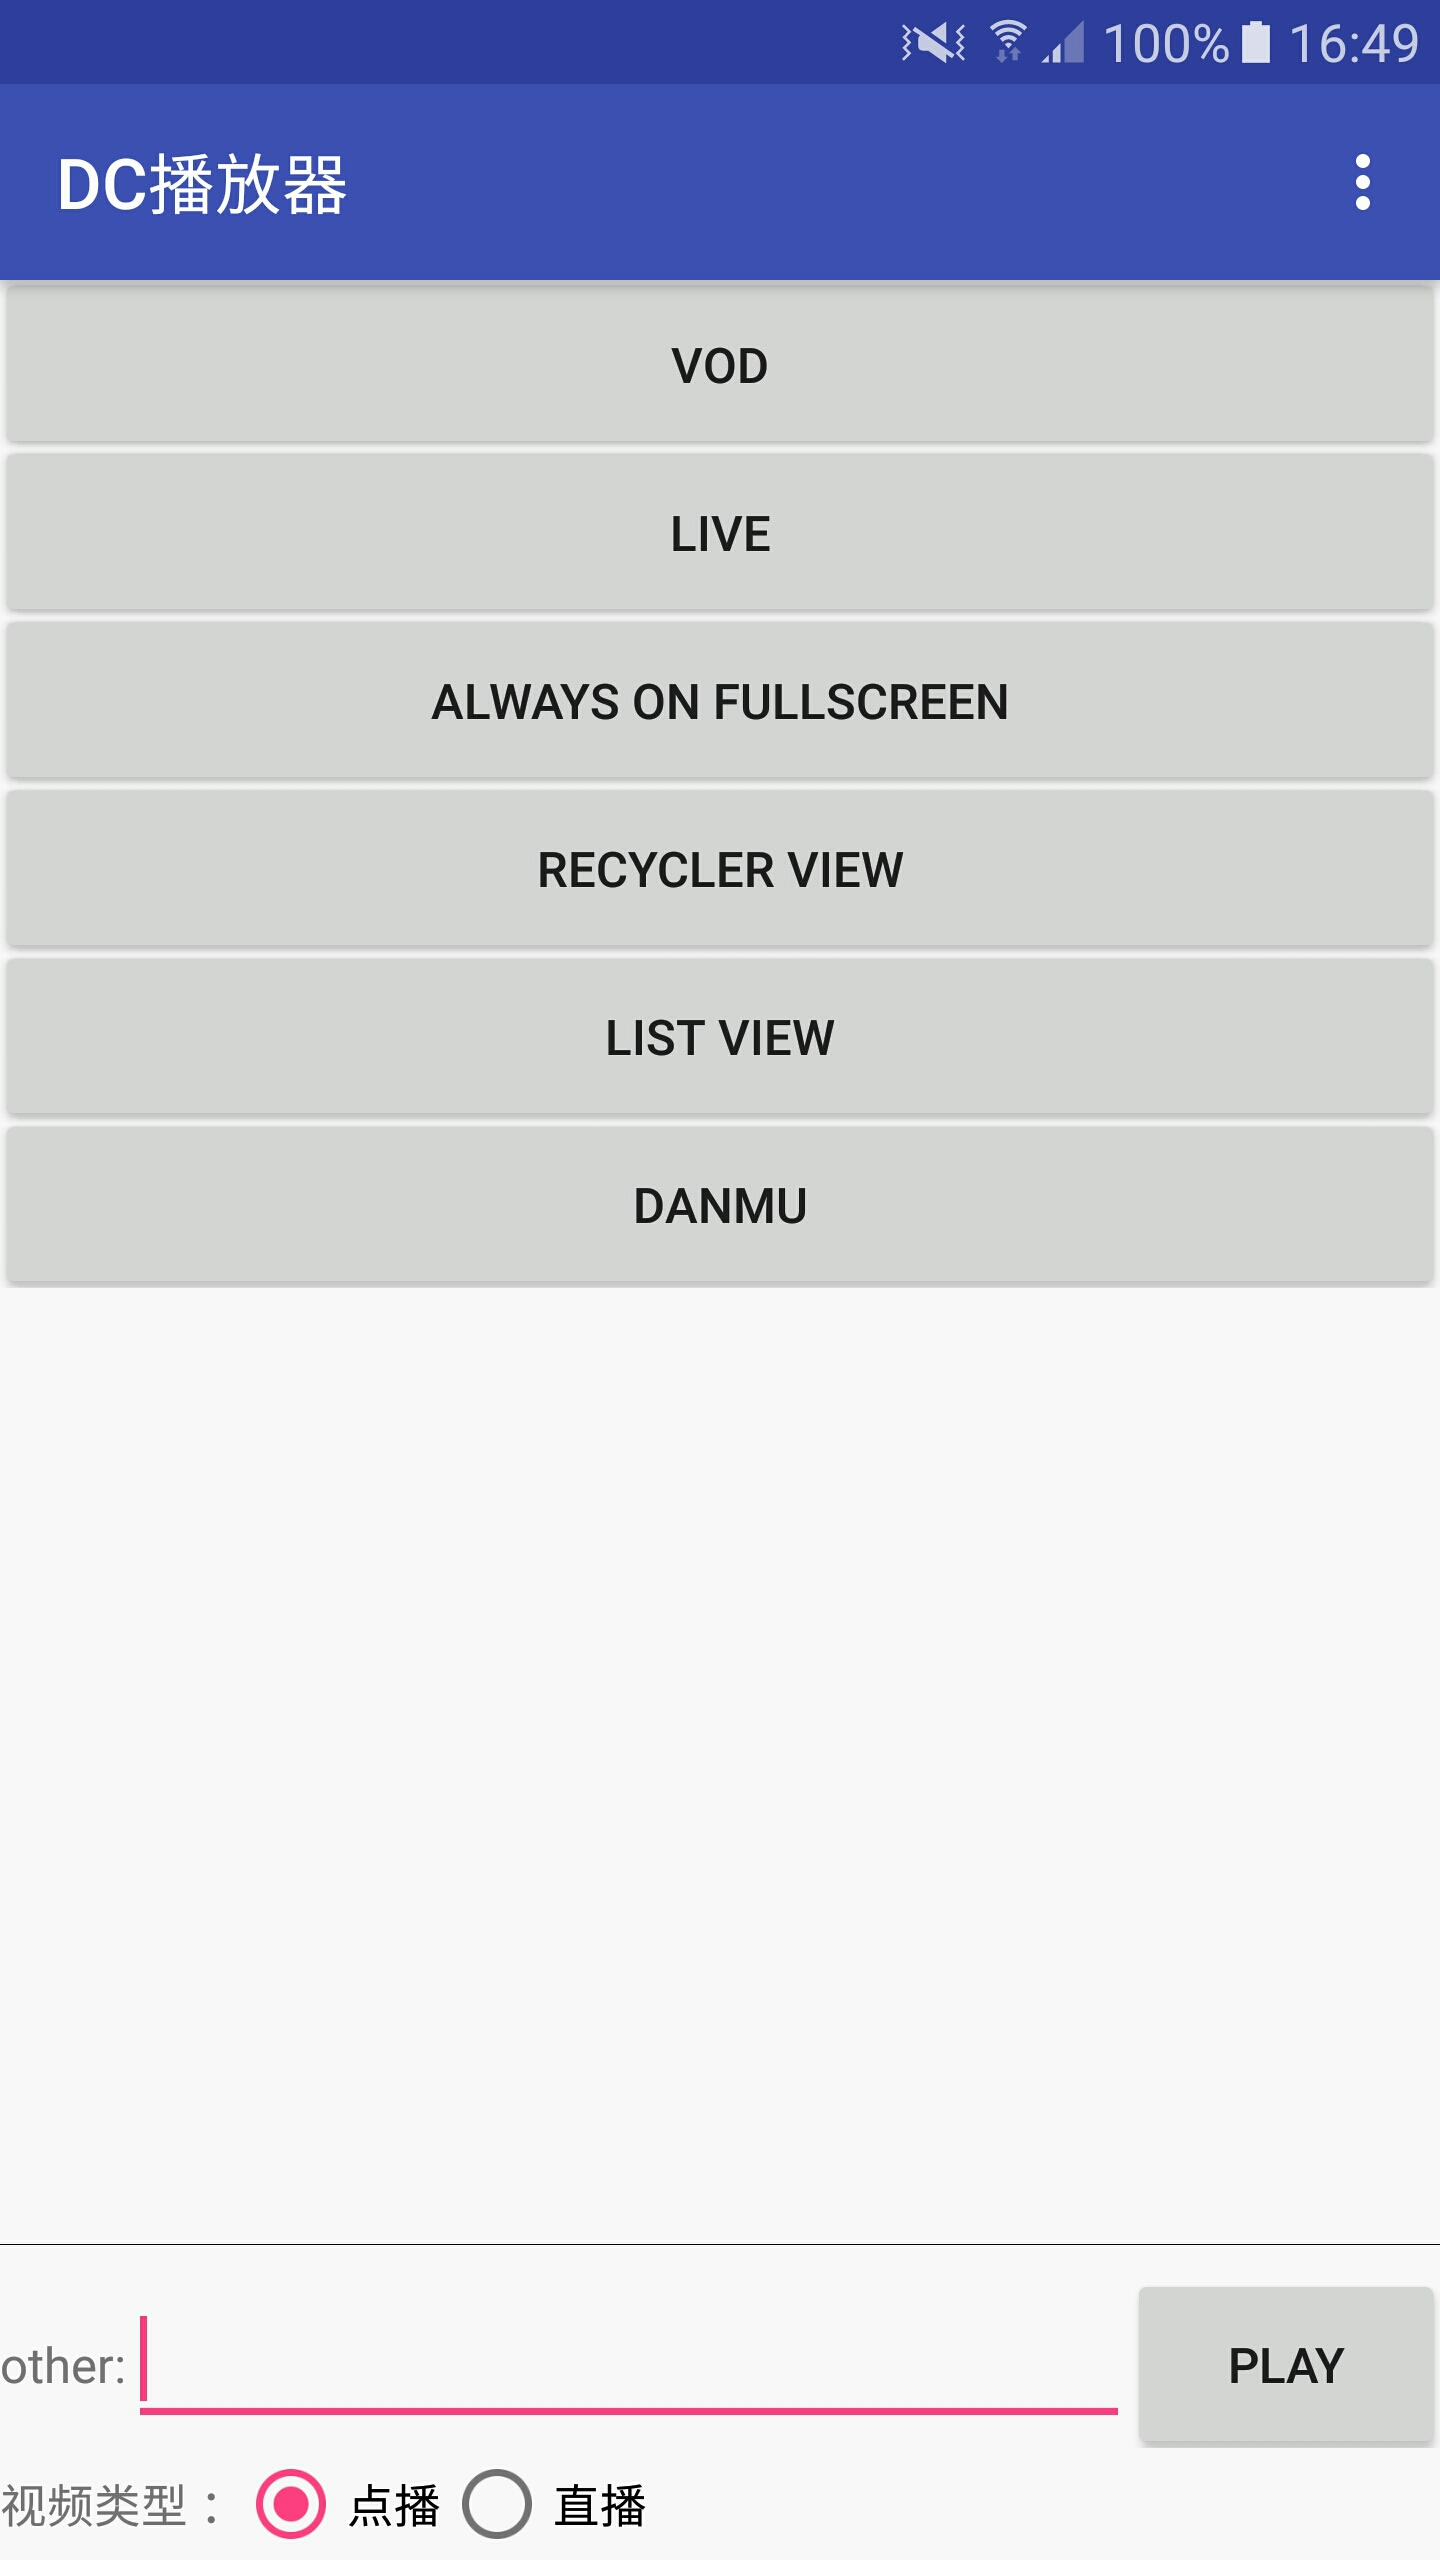
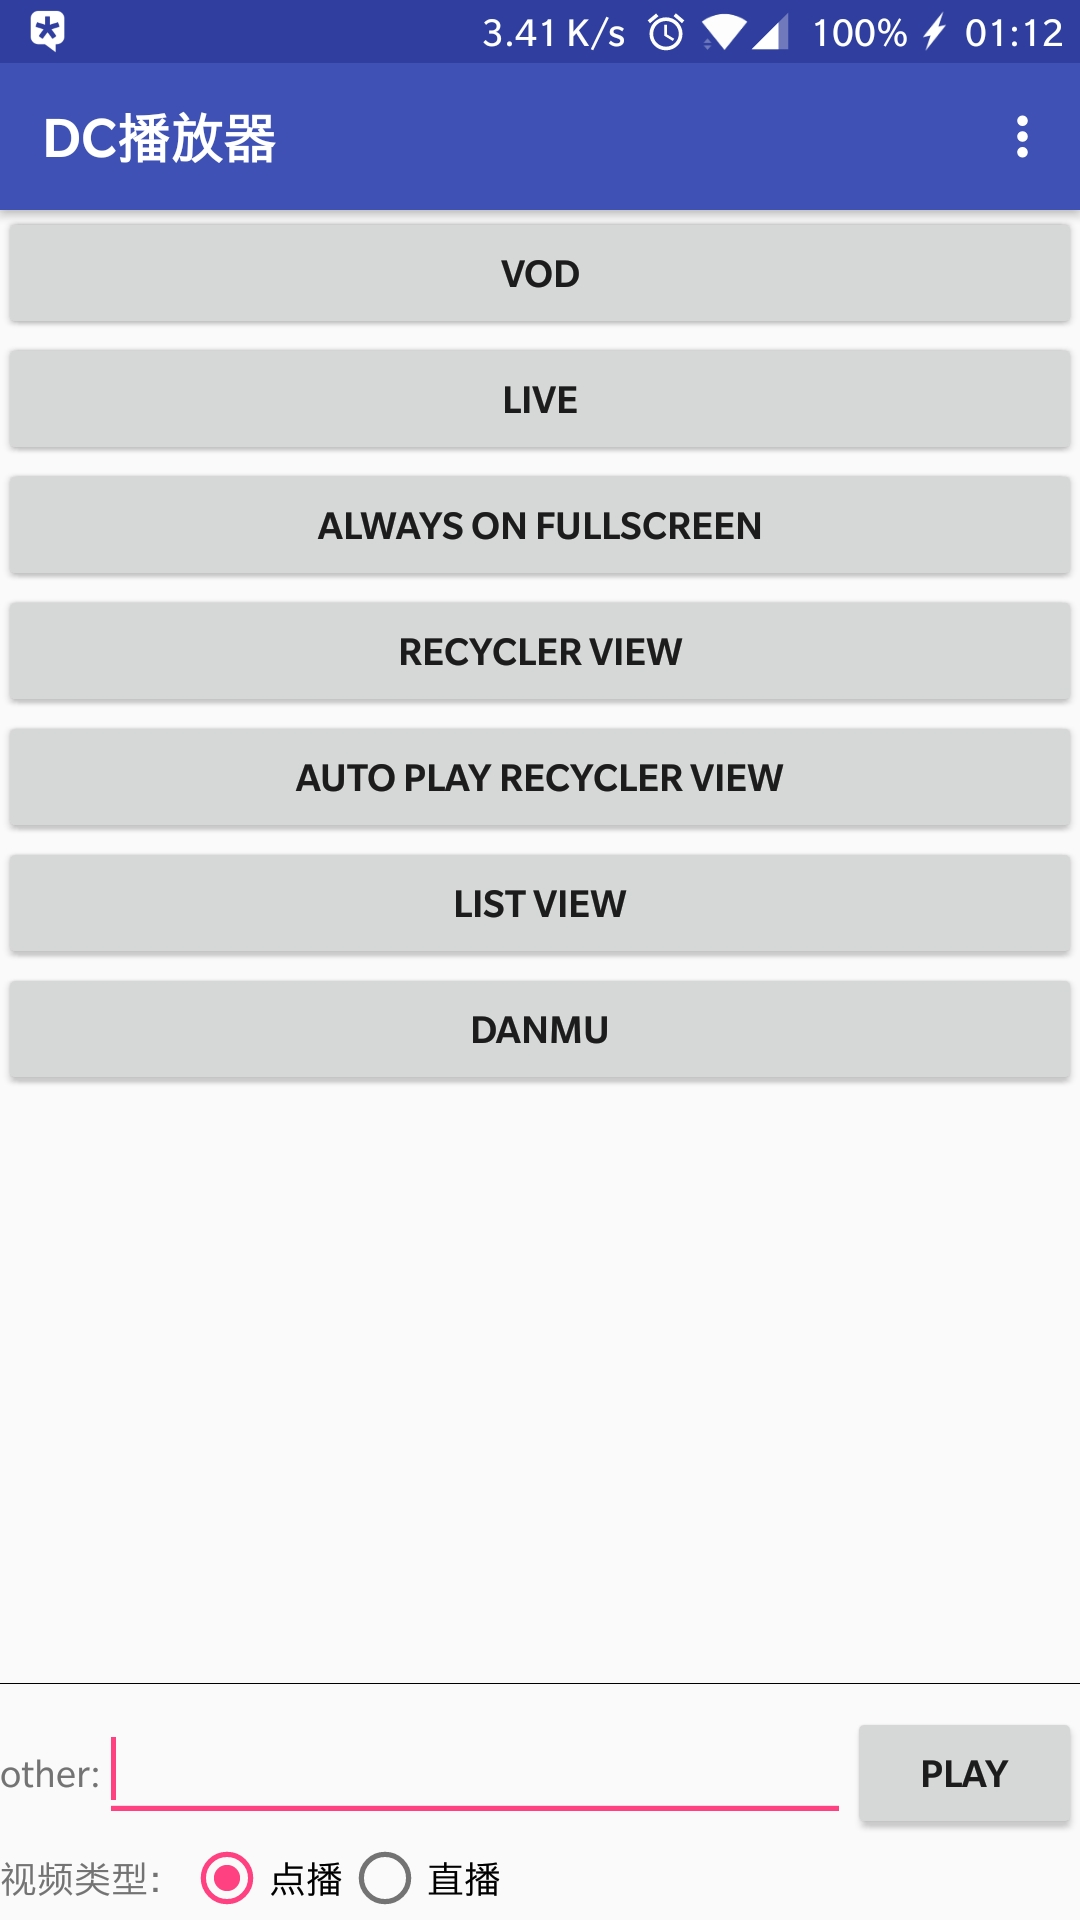
更新README

diff --git a/README.md b/README.md
@@ -11,6 +11,7 @@ A video player based on [IjkPlayer](https://github.com/Bilibili/ijkplayer).
 * **支持重力感应自动进入/退出全屏。**
 * **支持边播边缓存，使用了[AndroidVideoCache](https://github.com/danikula/AndroidVideoCache)。**
 * **完美实现列表播放（RecyclerView和ListView）。**
+* **支持列表自动播放。**
 * **支持封面。**
 * **支持锁定/解锁全屏。**
 * **支持调整显示比例:默认、原始大小、16:9、4:3、铺满屏幕。**
@@ -39,7 +40,7 @@ Step 1.Add it in your root build.gradle at the end of repositories:
 Step 2. Add the dependency
 
 	dependencies {
-	        compile 'com.github.DevlinChiu:dcplayer:1.3'
+	        compile 'com.github.DevlinChiu:dcplayer:1.4'
 	}
 ```
 或者将library下载并导入项目中使用
